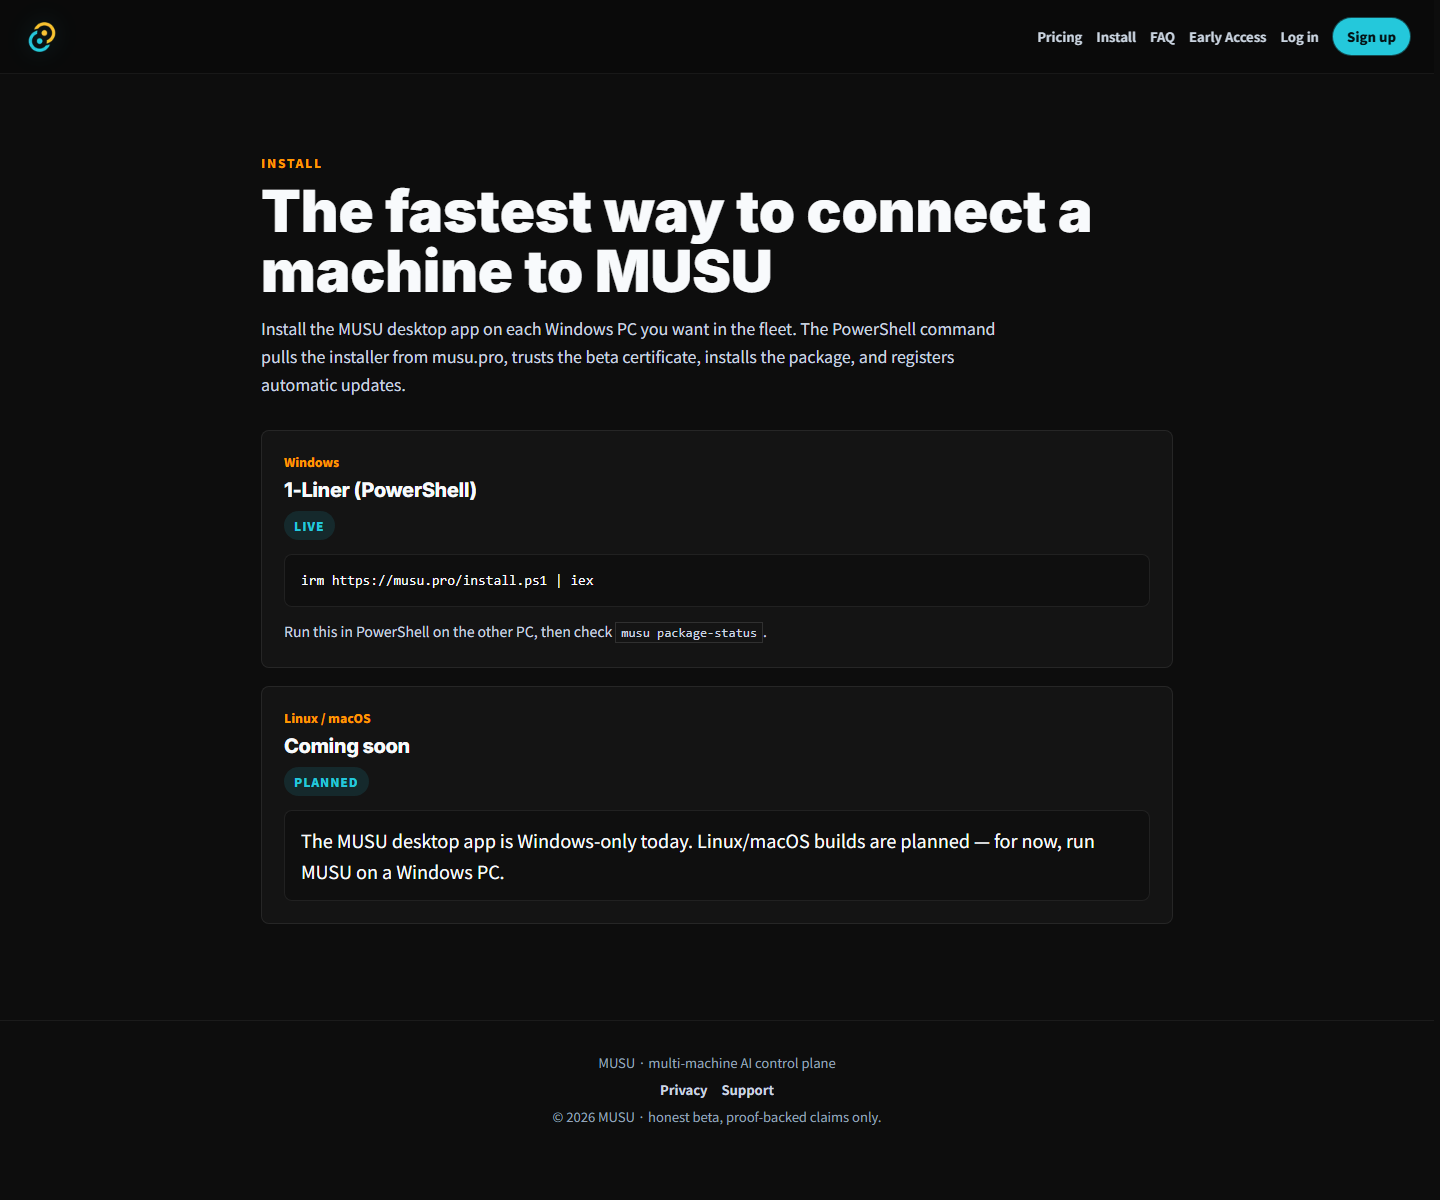
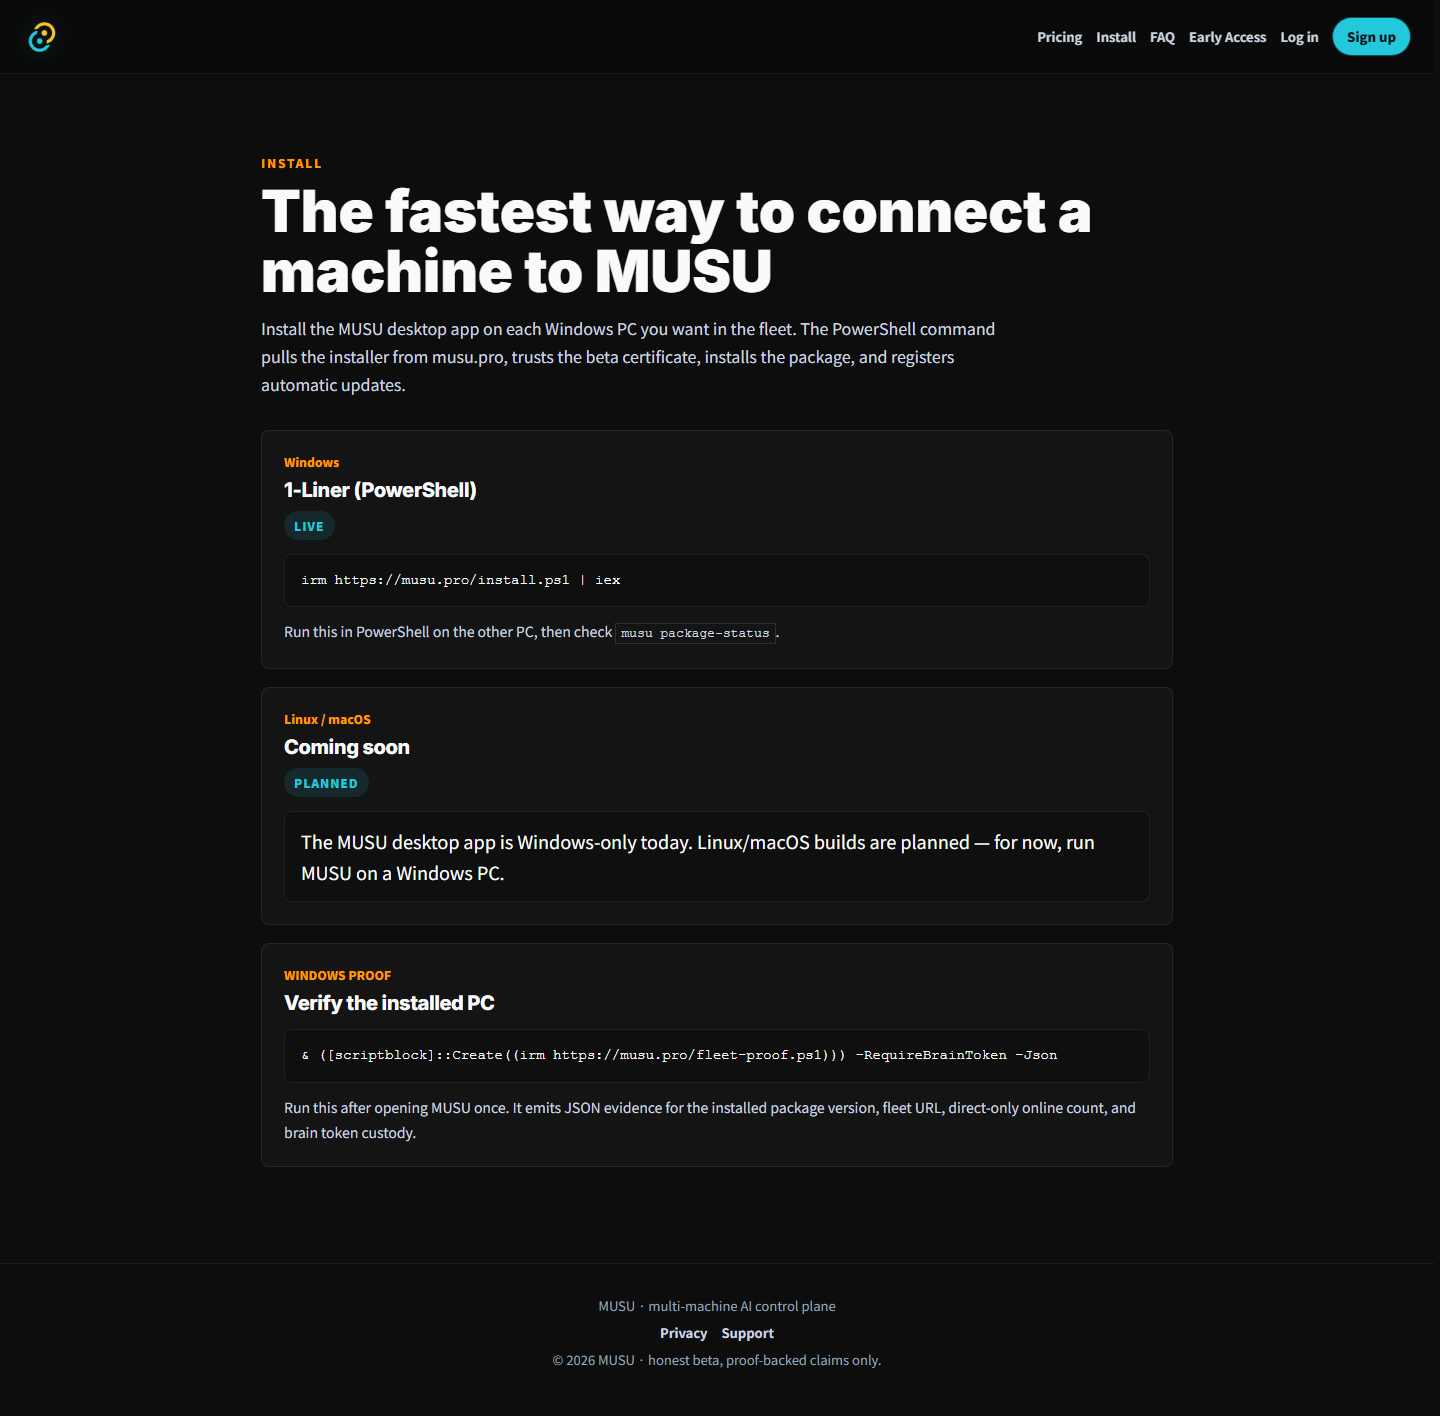
feat(site): expose fleet proof command

diff --git a/musu-bee/src/app/download/page.tsx b/musu-bee/src/app/download/page.tsx
@@ -14,8 +14,6 @@ export const metadata: Metadata = {
     "Install MUSU for Windows on this PC or another PC in one line: irm https://musu.pro/install.ps1 | iex. Beta build, self-signed; the installer trusts the cert and installs for you.",
 };
 
-const INSTALL_ONE_LINER = "irm https://musu.pro/install.ps1 | iex";
-
 export default function DownloadPage() {
   return (
     <PublicSiteShell>
@@ -48,6 +46,25 @@ export default function DownloadPage() {
             <code style={codeStyle}>musu nodes --json</code> to confirm the
             machine has published itself to the fleet registry.
           </p>
+        </section>
+
+        <section style={sectionStyle}>
+          <h2 style={headingStyle}>Prove the install after first launch</h2>
+          <p style={bodyStyle}>
+            Open MUSU once on that PC, then run this command to produce the JSON
+            proof MUSU uses for release checks: installed package version,
+            remote-usable fleet URL, direct-only online count, and brain token
+            custody.
+          </p>
+          <pre style={preStyle}>
+            <code data-testid="fleet-proof-command">{FLEET_PROOF_COMMAND}</code>
+          </pre>
+          <p style={hintStyle}>
+            For a two-PC direct proof, include the expected node names:
+          </p>
+          <pre style={preStyle}>
+            <code data-testid="fleet-proof-direct-command">{DIRECT_FLEET_PROOF_COMMAND}</code>
+          </pre>
         </section>
 
         <section style={sectionStyle}>
@@ -89,6 +106,14 @@ export default function DownloadPage() {
     </PublicSiteShell>
   );
 }
+
+const INSTALL_ONE_LINER = "irm https://musu.pro/install.ps1 | iex";
+
+const FLEET_PROOF_COMMAND =
+  "& ([scriptblock]::Create((irm https://musu.pro/fleet-proof.ps1))) -RequireBrainToken -Json";
+
+const DIRECT_FLEET_PROOF_COMMAND =
+  "& ([scriptblock]::Create((irm https://musu.pro/fleet-proof.ps1))) -ExpectedNodeName <this-pc-name> -ExpectedDirectPeerName <other-pc-name> -RequireBrainToken -Json";
 
 const pageStyle: CSSProperties = {
   maxWidth: 960,
@@ -150,6 +175,8 @@ const preStyle: CSSProperties = {
   fontSize: 14,
   lineHeight: 1.6,
   color: "var(--fg1)",
+  whiteSpace: "pre-wrap",
+  overflowWrap: "anywhere",
 };
 
 const hintStyle: CSSProperties = {

diff --git a/musu-bee/src/app/install/page.tsx b/musu-bee/src/app/install/page.tsx
@@ -48,11 +48,29 @@ export default function InstallPage() {
               </article>
             );
           })}
+
+          <article style={cardStyle}>
+            <div style={platformStyle}>WINDOWS PROOF</div>
+            <h2 style={cardTitleStyle}>Verify the installed PC</h2>
+            <div style={detailBlockStyle}>
+              <code data-testid="fleet-proof-command" style={commandStyle}>
+                {FLEET_PROOF_COMMAND}
+              </code>
+            </div>
+            <p style={hintStyle}>
+              Run this after opening MUSU once. It emits JSON evidence for the
+              installed package version, fleet URL, direct-only online count, and
+              brain token custody.
+            </p>
+          </article>
         </div>
       </main>
     </PublicSiteShell>
   );
 }
+
+const FLEET_PROOF_COMMAND =
+  "& ([scriptblock]::Create((irm https://musu.pro/fleet-proof.ps1))) -RequireBrainToken -Json";
 
 const eyebrowStyle: CSSProperties = {
   fontSize: 12,

diff --git a/musu-bee/src/app/public-metadata-contract.test.ts b/musu-bee/src/app/public-metadata-contract.test.ts
@@ -59,10 +59,18 @@ test("public install surfaces expose the one-line Windows installer", () => {
 
   assert.ok(downloadSource.includes(command));
   assert.match(downloadSource, /data-testid="install-one-liner"/);
+  assert.match(downloadSource, /data-testid="fleet-proof-command"/);
+  assert.match(downloadSource, /data-testid="fleet-proof-direct-command"/);
   assert.match(downloadSource, /musu package-status/);
   assert.match(downloadSource, /musu nodes --json/);
+  assert.ok(downloadSource.includes(proofCommand));
+  assert.match(downloadSource, /ExpectedDirectPeerName/);
+  assert.match(downloadSource, /RequireBrainToken/);
   assert.ok(installSource.includes("INSTALL_COMMANDS"));
   assert.match(installSource, /data-testid="install-one-liner"/);
+  assert.match(installSource, /data-testid="fleet-proof-command"/);
+  assert.ok(installSource.includes(proofCommand));
+  assert.match(installSource, /RequireBrainToken/);
   assert.ok(contentSource.includes(command));
   assert.match(routeSource, /DESKTOP_INSTALL_SCRIPT_URL/);
   assert.match(routeSource, /cache:\s*"no-store"/);

diff --git a/docs/DESIGN_BRIEF_PR34_FLEET_INSTALL_2026_06_27.md b/docs/DESIGN_BRIEF_PR34_FLEET_INSTALL_2026_06_27.md
@@ -13,9 +13,10 @@ remote work can run when the route is stale or unproven.
 
 The UI changes are intentionally narrow:
 
-- `/download`: show the public one-line Windows installer command for another PC.
+- `/download`: show the public one-line Windows installer command for another PC
+  and the post-first-launch proof commands that emit release JSON.
 - `/install`: expose the same command in the install surface and keep non-Windows
-  states as planned, not available.
+  states as planned, not available. It also exposes the PC-local proof command.
 - `/fleet` and `/dashboard/fleet`: rename online totals and relay wording so a
   relay-display heartbeat is not presented as a proven work route.
 
@@ -35,12 +36,15 @@ The UI changes are intentionally narrow:
    that App Installer updates are registered. This prevents a hidden install
    trust boundary.
 3. `/download` adds post-install verification commands:
-   `musu package-status` and `musu nodes --json`.
-4. `/fleet` no longer says "Reachable over relay" for a display-only heartbeat.
+   `musu package-status`, `musu nodes --json`, and the hosted
+   `fleet-proof.ps1` JSON proof wrapper.
+4. `/install` also shows the hosted `fleet-proof.ps1` proof command so the
+   install path does not end at a weak package-status check.
+5. `/fleet` no longer says "Reachable over relay" for a display-only heartbeat.
    It says "Recent relay heartbeat; direct route not proven."
-5. `/dashboard/fleet` changes the summary from "Nodes Online" to "Direct Online"
+6. `/dashboard/fleet` changes the summary from "Nodes Online" to "Direct Online"
    so the count matches the runtime contract.
-6. Card radii were reduced to 8px and heading letter spacing was reset to 0 to
+7. Card radii were reduced to 8px and heading letter spacing was reset to 0 to
    align with the current UI design rules.
 
 ## Screenshots
@@ -51,15 +55,22 @@ Local screenshots captured from `http://127.0.0.1:3000`:
 - `docs/design-artifacts/pr34-install.png`
 - `docs/design-artifacts/pr34-fleet.png`
 
-The `/fleet` artifact captures the empty local state. The relay/direct text is
-covered by source and contract tests because this local browser session did not
-have paired PCs in the web fleet store.
+`pr34-download.png` and `pr34-install.png` were refreshed after the hosted
+`fleet-proof.ps1` command was added to the install surfaces. The `/fleet`
+artifact captures the empty local state. The relay/direct text is covered by
+source and contract tests because this local browser session did not have paired
+PCs in the web fleet store.
 
 ## Verification
 
-- `npx tsx --test src/app/api/health/route.test.ts src/lib/nodeRegistryStore.test.ts src/app/api/v1/nodes/register/route.test.ts src/app/public-metadata-contract.test.ts`
-  passed 38/38.
-- `npm run test:public-release` passed 11/11.
+- `npm run test:public-release` passed 16/16 and asserts `/download` and
+  `/install` expose the hosted `fleet-proof.ps1` proof command.
+- `npm run typecheck` passed.
+- `npm run build` passed. Compile took 79s; the only visible warning was the
+  existing Next 16 `middleware` convention deprecation.
+- Playwright screenshot refresh for `/download` and `/install` passed desktop
+  horizontal-overflow checks; `/download` also passed a 390px mobile
+  horizontal-overflow check.
 - `cargo test registry_last_seen_to_heartbeat --lib` passed 1/1
   (`registry_last_seen_to_heartbeat_uses_registry_stamp`).
 - PR #34 code/test CI checks pass on the current branch lineage; only

diff --git a/docs/WIKI_INDEX.md b/docs/WIKI_INDEX.md
@@ -8695,7 +8695,10 @@ Per-push Const VII typecheck/test gates are autonomous (no user prompt); main-me
 - 2026-06-27 PR #34 design approval packet:
   `docs/DESIGN_BRIEF_PR34_FLEET_INSTALL_2026_06_27.md` records the UI scope and
   approval checklist for `/download`, `/install`, `/fleet`, and `/dashboard/fleet`;
-  approval is requested in GitHub issue #35.
+  approval is requested in GitHub issue #35. The install UI scope now includes
+  the hosted `fleet-proof.ps1` proof command on `/download` and `/install`, so
+  the public user path can proceed from one-line install to release-grade JSON
+  evidence instead of stopping at `package-status` / `nodes`.
   Local screenshots from `127.0.0.1:3000` are committed at
   `docs/design-artifacts/pr34-download.png`, `docs/design-artifacts/pr34-install.png`,
   and `docs/design-artifacts/pr34-fleet.png`. This is not approval; the remaining
@@ -8703,7 +8706,8 @@ Per-push Const VII typecheck/test gates are autonomous (no user prompt); main-me
   CEO/design approval comment and `Design: Approved` in the PR body. Search terms should include
   `DESIGN_BRIEF_PR34_FLEET_INSTALL`, `pr34-download.png`, `pr34-install.png`,
   `pr34-fleet.png`, `issue #35`, `approval requested not yet approved`, and
-  `Design: Approved`.
+  `Design: Approved`, `fleet-proof command on install pages`, and
+  `release-grade JSON evidence`.
 
 - 2026-06-27 product readiness code audit:
   `docs/MUSU_PRODUCT_READINESS_CODE_AUDIT_2026_06_27.md` records the current
@@ -8711,12 +8715,16 @@ Per-push Const VII typecheck/test gates are autonomous (no user prompt); main-me
   false-freshness bugs are fixed: registry `last_seen` is no longer replaced by
   fetch time, loopback/wildcard/port-0 `public_url` values are rejected, unusable
   cached registry rows do not suppress valid peers, and relay-display is not
-  counted in `online_nodes`. The audit keeps two blockers explicit: physical
-  `hugh-main` `fleet-proof.ps1` JSON and real PR #34 design approval. Search
+  counted in `online_nodes`. The audit also records the public install-page
+  follow-up: `/download` and `/install` now expose `fleet-proof.ps1`, with a
+  public metadata contract test keeping the command visible. The audit keeps two
+  blockers explicit: physical `hugh-main` `fleet-proof.ps1` JSON and real PR #34
+  design approval. Search
   terms should include `MUSU_PRODUCT_READINESS_CODE_AUDIT`,
   `false-online fixes`, `registry_last_seen_to_heartbeat`,
   `online_nodes_direct_only`, `hugh-main physical proof missing`,
-  `issue #35 approval missing`, and `next action packet`.
+  `issue #35 approval missing`, `fleet-proof.ps1 public install pages`, and
+  `next action packet`.
 
 - 2026-06-27 design-gate token hardening:
   `scripts/design-gate/evaluate.cjs` now accepts `Design: Approved` only as a

diff --git a/docs/MUSU_PRODUCT_READINESS_CODE_AUDIT_2026_06_27.md b/docs/MUSU_PRODUCT_READINESS_CODE_AUDIT_2026_06_27.md
@@ -18,6 +18,7 @@ when a registry row looks fresh.
 | INFO | The pasted HIGH runtime defects are fixed in current code. | `musu-rs/src/bridge/mod.rs` writes registry `last_seen` through `registry_last_seen_to_heartbeat`, and rejects loopback/wildcard/port-0 public URLs through `public_url_to_remote_addr`. `musu-rs/src/peer/discovery.rs` ignores unusable cached registry peers. | The old false-fresh relay/online bug is covered at the source of fleet truth. | Keep `registry_last_seen`, `public_url`, and unusable-cache tests in the release gate. |
 | INFO | Relay-display is now separated from direct work readiness. | `musu-rs/src/bridge/handlers/fleet.rs` documents relay as display-only and `tally_fleet()` counts only direct healthy peers in `online_nodes`. Hosted `fleet-proof.ps1` checks `online_nodes_direct_only`. | Users should no longer see a relay/display-only peer as a work-targetable online node. | Preserve this wording in CLI, web fleet UI, and release reports. |
 | INFO | Install-channel proof is now version-aware instead of HTTP-200-only. | `musu-bee/src/app/fleet-proof.ps1/route.ts` checks `installed_package_version_matches_release`; `scripts/windows/verify-musu-pro-install-channel.ps1` verifies live `/fleet-proof.ps1` schema, expected package version, and proof gates. | A stale package can no longer masquerade as a successful install-channel proof. | Keep cache-busted release URLs and live install-channel verification before giving the one-line command to another PC. |
+| INFO | Public install pages now lead to release-grade proof, not only weak post-install checks. | `/download` and `/install` expose the hosted `fleet-proof.ps1` command; `src/app/public-metadata-contract.test.ts` asserts both public pages keep that command visible. | The operator can install on `hugh-main` and immediately emit the JSON evidence this audit requires. | Refresh design artifacts and keep the proof command on public install surfaces until two-PC readiness is proven. |
 | LOW | Local operator workflow was slower than necessary. | A broad `rg` over `docs/vendor` and evidence JSON produced hundreds of thousands of tokens before being stopped. | This does not affect MUSU runtime, but it slows audits and increases context noise. | Use targeted paths and exclude `docs/vendor/**`, `docs/evidence/**`, `target/**`, and `node_modules/**` by default. |
 
 ## Code Audit Notes
@@ -42,6 +43,11 @@ when a registry row looks fresh.
 - `musu-bee/src/app/fleet-proof.ps1/route.ts`
   - Good: the hosted proof wrapper makes the main-PC evidence path repo-free.
   - Risk left: the wrapper is only a proof surface; it does not replace physical execution on `hugh-main`.
+
+- `musu-bee/src/app/download/page.tsx` and `musu-bee/src/app/install/page.tsx`
+  - Good: the public install surfaces now show `fleet-proof.ps1`, so the user path
+    reaches release-grade JSON evidence instead of stopping at `package-status`.
+  - Risk left: the pages can guide the proof, but only `hugh-main` can produce it.
 
 ## Dependency Map
 